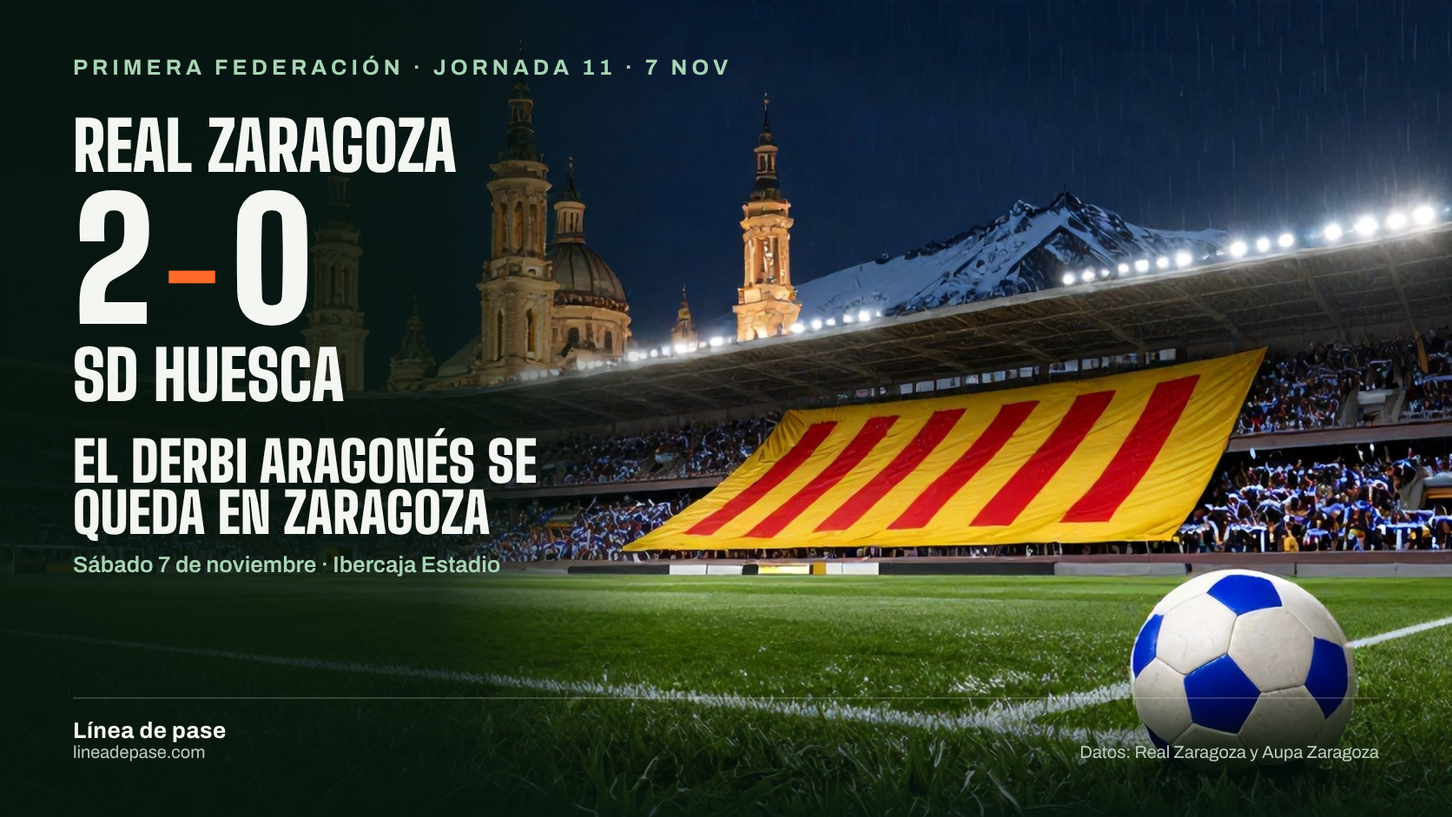
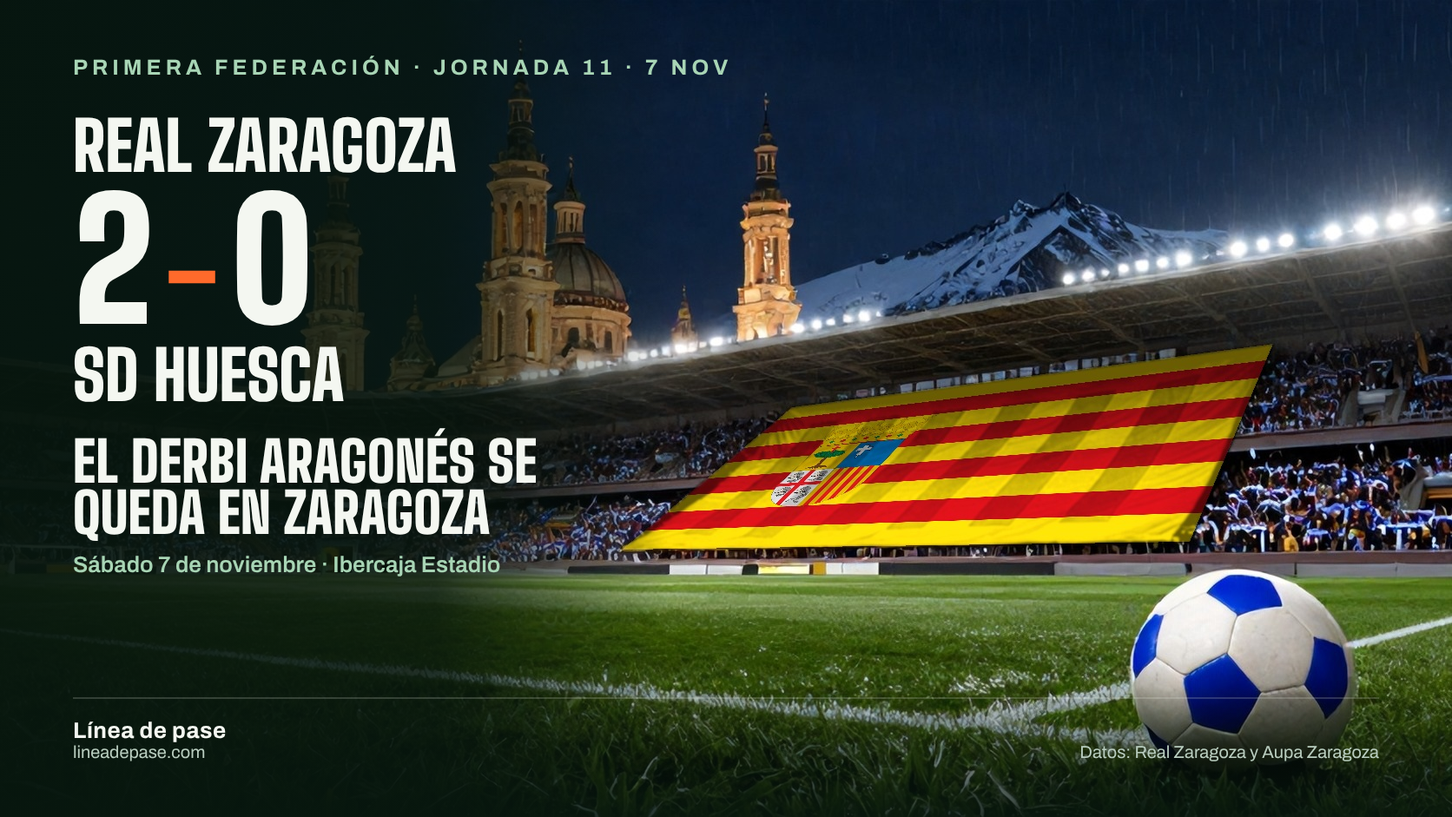
J11: bandera de Aragón correcta en la ilustración

Changed region(s): [[0.4354, 0.4006, 0.8708, 0.678]]

diff --git a/index.html b/index.html
@@ -84,7 +84,7 @@
 </div></section>
 <div class="envoltorio">
 <div class="divisor-campo" aria-hidden="true"></div>
-<!-- previas-portada --><section class="previas-portada" aria-labelledby="titulo-previas"><p class="etiqueta">Partidos</p><h2 id="titulo-previas">Partidos y análisis</h2><div class="previas-rejilla"><article class="tarjeta-previa" data-fecha="2026-11-07" data-hora="21:00" data-resultado-confirmado="true" data-marcador="2–0"><a href="proyectos/real-zaragoza/previa-jornada-11.html"><img src="proyectos/real-zaragoza/graficos/jornada-11/resultado-zaragoza-huesca.webp" alt="Marcador final Real Zaragoza 2–0 SD Huesca en la jornada 11, con el titular «El derbi aragonés se queda en Zaragoza», sobre una ilustración de un estadio lleno con un tifo de la bandera de Aragón, la basílica del Pilar y el Pirineo al fondo." width="1672" height="941" loading="lazy" srcset="assets/adaptadas/resultado-zaragoza-huesca-5c0852fd62-480.webp 480w, assets/adaptadas/resultado-zaragoza-huesca-5c0852fd62-800.webp 800w, assets/adaptadas/resultado-zaragoza-huesca-5c0852fd62-1200.webp 1200w, assets/adaptadas/resultado-zaragoza-huesca-5c0852fd62-1600.webp 1600w, assets/adaptadas/resultado-zaragoza-huesca-5c0852fd62-1672.webp 1672w" sizes="(max-width: 640px) calc(100vw - 48px), 800px"></a><p class="estado-previa">Final · 2–0</p><p class="etiqueta">Primera Federación · J11 · Resultado final</p><p class="datos-partido">07/11 · 21:00 h · Ibercaja Estadio</p><p class="marcador-previa"><span class="solo-lectores">Marcador final: </span>2–0</p><p class="fecha-datos"><time datetime="2026-11-03">Publicada el 03/11/2026</time> · <time datetime="2026-11-08">Actualizada el 08/11/2026</time></p><h3><a href="proyectos/real-zaragoza/previa-jornada-11.html">Real Zaragoza 2–0 SD Huesca: el derbi aragonés se queda en Zaragoza</a></h3><p>Joaquín, en el 23&#x27;, y Vadillo, en el 50&#x27;, marcaron tras dos pérdidas del Huesca en la salida de balón. El equipo oscense terminó con un solo remate y con diez desde el 67&#x27;.</p><a class="enlace-editorial" href="proyectos/real-zaragoza/previa-jornada-11.html">Leer el análisis</a><a class="boton calendario-partido" data-fecha="2026-11-07" data-hora="21:00" hidden href="calendario/previa-jornada-11.ics" download>Añadir al calendario</a><a class="enlace-postpartido postpartido-disponible" data-fecha="2026-11-07" data-resultado-confirmado="true" href="proyectos/real-zaragoza/jornada-11.html">Leer el análisis →</a></article><article class="tarjeta-previa" data-fecha="2026-10-31" data-hora="21:00" data-resultado-confirmado="true" data-marcador="2–2"><a href="proyectos/real-zaragoza/previa-jornada-10.html"><img src="proyectos/real-zaragoza/graficos/jornada-10/resultado-zaragoza-villarreal-b.webp" alt="Marcador final Real Zaragoza 2–2 Villarreal B en la jornada 10. Los goles de Jardí y Diego González completan la remontada en los últimos minutos, sobre una ilustración de un reloj de arena en el césped." width="1672" height="941" loading="lazy" srcset="assets/adaptadas/resultado-zaragoza-villarreal-b-d0c28ac601-480.webp 480w, assets/adaptadas/resultado-zaragoza-villarreal-b-d0c28ac601-800.webp 800w, assets/adaptadas/resultado-zaragoza-villarreal-b-d0c28ac601-1200.webp 1200w, assets/adaptadas/resultado-zaragoza-villarreal-b-d0c28ac601-1600.webp 1600w, assets/adaptadas/resultado-zaragoza-villarreal-b-d0c28ac601-1672.webp 1672w" sizes="(max-width: 640px) calc(100vw - 48px), 800px"></a><p class="estado-previa">Final · 2–2</p><p class="etiqueta">Primera Federación · J10 · Resultado final</p><p class="datos-partido">31/10 · 21:00 h · Ibercaja Estadio</p><p class="marcador-previa"><span class="solo-lectores">Marcador final: </span>2–2</p><p class="fecha-datos"><time datetime="2026-10-27">Publicada el 27/10/2026</time> · <time datetime="2026-11-01">Actualizada el 01/11/2026</time></p><h3><a href="proyectos/real-zaragoza/previa-jornada-10.html">Real Zaragoza 2–2 Villarreal B: del 0-2 al empate en siete minutos</a></h3><p>El Villarreal B marcó en el 64&#x27; y el 70&#x27;; Jardí, en el rechace de su penalti, y Diego González, en el 90+3&#x27;, igualaron el duelo entre los dos primeros.</p><a class="enlace-editorial" href="proyectos/real-zaragoza/previa-jornada-10.html">Leer el análisis</a><a class="boton calendario-partido" data-fecha="2026-10-31" data-hora="21:00" hidden href="calendario/previa-jornada-10.ics" download>Añadir al calendario</a><a class="enlace-postpartido postpartido-disponible" data-fecha="2026-10-31" data-resultado-confirmado="true" href="proyectos/real-zaragoza/jornada-10.html">Leer el análisis →</a></article><article class="tarjeta-previa" data-fecha="2026-10-27" data-hora="21:00" data-resultado-confirmado="true" data-marcador="0–4"><a href="proyectos/real-zaragoza/previa-copa-tudelano-20261027.html"><img src="proyectos/real-zaragoza/graficos/previa/noche-copa-tudela-20261027.webp" alt="Noche de Copa del Rey entre el CD Tudelano y el Real Zaragoza en Tudela." width="1672" height="941" loading="lazy" srcset="assets/adaptadas/noche-copa-tudela-20261027-93148c0889-480.webp 480w, assets/adaptadas/noche-copa-tudela-20261027-93148c0889-800.webp 800w, assets/adaptadas/noche-copa-tudela-20261027-93148c0889-1200.webp 1200w, assets/adaptadas/noche-copa-tudela-20261027-93148c0889-1600.webp 1600w, assets/adaptadas/noche-copa-tudela-20261027-93148c0889-1672.webp 1672w" sizes="(max-width: 640px) calc(100vw - 32px), (max-width: 1200px) calc((100vw - 80px)/2), 560px"></a><p class="estado-previa">Final · 0–4</p><p class="etiqueta">Copa del Rey · Primera eliminatoria · Resultado final</p><p class="datos-partido">27/10 · 21:00 h · Estadio Ciudad de Tudela</p><p class="marcador-previa"><span class="solo-lectores">Marcador final: </span>0–4</p><p class="fecha-datos"><time datetime="2026-10-27">Publicada el 27/10/2026</time> · <time datetime="2026-10-28">Actualizada el 28/10/2026</time></p><h3><a href="proyectos/real-zaragoza/previa-copa-tudelano-20261027.html">Tudelano 0–4 Real Zaragoza: una eliminatoria resuelta antes del descanso</a></h3><p>Cuatro goles en la primera parte encarrilaron el pase. La eficacia temprana permitió al Zaragoza gestionar la segunda mitad y repartir minutos.</p><a class="enlace-editorial" href="proyectos/real-zaragoza/previa-copa-tudelano-20261027.html">Leer el análisis</a><a class="boton calendario-partido" data-fecha="2026-10-27" data-hora="21:00" hidden href="calendario/previa-copa-tudelano-20261027.ics" download>Añadir al calendario</a></article></div></section><!-- /previas-portada --><section class="actualidad-editorial actualidad-compacta"><article class="analisis-principal"><p class="etiqueta">Último partido de liga · Jornada 11</p><div class="titulo-resultado"><h2><a href="proyectos/real-zaragoza/jornada-11.html">Real Zaragoza – SD Huesca</a></h2><p class="marcador-editorial">2–0</p></div><figure class="resultado-portada-visual" data-jornada="11" data-fecha-partido="2026-11-07"><a href="proyectos/real-zaragoza/ultimo-partido.html" aria-label="Abrir el análisis de Real Zaragoza – SD Huesca"><img src="assets/ilustraciones/resultado-real-zaragoza-ultima-jornada.png" width="1200" height="630" loading="lazy" alt="Marcador final de Real Zaragoza – SD Huesca · Jornada 11" srcset="assets/adaptadas/resultado-real-zaragoza-ultima-jornada-867a9bf0fd-480.webp 480w, assets/adaptadas/resultado-real-zaragoza-ultima-jornada-867a9bf0fd-800.webp 800w, assets/adaptadas/resultado-real-zaragoza-ultima-jornada-867a9bf0fd-1200.webp 1200w" sizes="(max-width: 640px) calc(100vw - 48px), 800px"></a><figcaption>Marcador · Jornada 11</figcaption></figure><p class="entradilla">El Zaragoza ganó el derbi 2–0 con dos goles nacidos de pérdidas del Huesca en la salida de balón.</p><p class="fecha-datos">07/11/2026 · Temporada 2026/27</p><p class="aviso-ficha-estadistica pendiente">Ficha estadística pendiente de validación. Las métricas de este partido no se muestran en la portada.</p><div class="enlaces"><a class="enlace-editorial" href="proyectos/real-zaragoza/jornada-11.html#titulo-claves">El análisis completo →</a></div></article><aside class="mesa-de-datos"><p class="etiqueta">Para explorar</p><h2>Haz tu propia comparación</h2><a class="imagen-menu-comparador" href="comparador/" aria-label="Abrir el comparador de equipos"><img src="assets/ilustraciones/comparador-grupo2.webp" width="1672" height="941" loading="lazy" alt="Ilustración editorial de dos equipos comparados sobre un campo de fútbol" srcset="assets/adaptadas/comparador-grupo2-3f3da6a923-480.webp 480w, assets/adaptadas/comparador-grupo2-3f3da6a923-800.webp 800w, assets/adaptadas/comparador-grupo2-3f3da6a923-1200.webp 1200w, assets/adaptadas/comparador-grupo2-3f3da6a923-1600.webp 1600w, assets/adaptadas/comparador-grupo2-3f3da6a923-1672.webp 1672w" sizes="(max-width: 760px) calc(100vw - 32px), 400px"></a><a href="comparador/"><strong>Dos equipos, frente a frente →</strong><span>Resultados, ocasiones y contexto.</span></a><a href="mapa-grupo/"><strong>El mapa del Grupo 2 →</strong><span>Veinte equipos en una misma vista.</span></a><a href="archivo/"><strong>Buscar un análisis →</strong><span>Por rival, temporada o tema.</span></a><a href="marcador-a-ciegas/"><strong>El marcador a ciegas →</strong><span>¿Qué cuentan los tiros y la posesión?</span></a><a href="reloj-del-marcador/"><strong>El reloj del marcador →</strong><span>Minutos de ventaja, empate o desventaja.</span></a><a href="pizarron-de-una-jugada/"><strong>El pizarrón de una jugada →</strong><span>La secuencia del gol ante el Europa.</span></a><a href="balance-de-preguntas/"><strong>Balance de preguntas →</strong><span>Qué se pudo comprobar después.</span></a><a href="partidos-espejo/"><strong>Partidos espejo →</strong><span>Perfiles parecidos, marcadores distintos.</span></a><a href="datos-en-revision/"><strong>Cuando las cifras no coinciden →</strong><span>Qué se publica y cómo se trata la diferencia.</span></a><a href="preguntas-del-partido/"><strong>Preguntas del partido →</strong><span>Lo que se planteó antes y se comprobó después.</span></a></aside></section>
+<!-- previas-portada --><section class="previas-portada" aria-labelledby="titulo-previas"><p class="etiqueta">Partidos</p><h2 id="titulo-previas">Partidos y análisis</h2><div class="previas-rejilla"><article class="tarjeta-previa" data-fecha="2026-11-07" data-hora="21:00" data-resultado-confirmado="true" data-marcador="2–0"><a href="proyectos/real-zaragoza/previa-jornada-11.html"><img src="proyectos/real-zaragoza/graficos/jornada-11/resultado-zaragoza-huesca.webp" alt="Marcador final Real Zaragoza 2–0 SD Huesca en la jornada 11, con el titular «El derbi aragonés se queda en Zaragoza», sobre una ilustración de un estadio lleno con un tifo de la bandera de Aragón, la basílica del Pilar y el Pirineo al fondo." width="1672" height="941" loading="lazy" srcset="assets/adaptadas/resultado-zaragoza-huesca-20370a7d49-480.webp 480w, assets/adaptadas/resultado-zaragoza-huesca-20370a7d49-800.webp 800w, assets/adaptadas/resultado-zaragoza-huesca-20370a7d49-1200.webp 1200w, assets/adaptadas/resultado-zaragoza-huesca-20370a7d49-1600.webp 1600w, assets/adaptadas/resultado-zaragoza-huesca-20370a7d49-1672.webp 1672w" sizes="(max-width: 640px) calc(100vw - 48px), 800px"></a><p class="estado-previa">Final · 2–0</p><p class="etiqueta">Primera Federación · J11 · Resultado final</p><p class="datos-partido">07/11 · 21:00 h · Ibercaja Estadio</p><p class="marcador-previa"><span class="solo-lectores">Marcador final: </span>2–0</p><p class="fecha-datos"><time datetime="2026-11-03">Publicada el 03/11/2026</time> · <time datetime="2026-11-08">Actualizada el 08/11/2026</time></p><h3><a href="proyectos/real-zaragoza/previa-jornada-11.html">Real Zaragoza 2–0 SD Huesca: el derbi aragonés se queda en Zaragoza</a></h3><p>Joaquín, en el 23&#x27;, y Vadillo, en el 50&#x27;, marcaron tras dos pérdidas del Huesca en la salida de balón. El equipo oscense terminó con un solo remate y con diez desde el 67&#x27;.</p><a class="enlace-editorial" href="proyectos/real-zaragoza/previa-jornada-11.html">Leer el análisis</a><a class="boton calendario-partido" data-fecha="2026-11-07" data-hora="21:00" hidden href="calendario/previa-jornada-11.ics" download>Añadir al calendario</a><a class="enlace-postpartido postpartido-disponible" data-fecha="2026-11-07" data-resultado-confirmado="true" href="proyectos/real-zaragoza/jornada-11.html">Leer el análisis →</a></article><article class="tarjeta-previa" data-fecha="2026-10-31" data-hora="21:00" data-resultado-confirmado="true" data-marcador="2–2"><a href="proyectos/real-zaragoza/previa-jornada-10.html"><img src="proyectos/real-zaragoza/graficos/jornada-10/resultado-zaragoza-villarreal-b.webp" alt="Marcador final Real Zaragoza 2–2 Villarreal B en la jornada 10. Los goles de Jardí y Diego González completan la remontada en los últimos minutos, sobre una ilustración de un reloj de arena en el césped." width="1672" height="941" loading="lazy" srcset="assets/adaptadas/resultado-zaragoza-villarreal-b-d0c28ac601-480.webp 480w, assets/adaptadas/resultado-zaragoza-villarreal-b-d0c28ac601-800.webp 800w, assets/adaptadas/resultado-zaragoza-villarreal-b-d0c28ac601-1200.webp 1200w, assets/adaptadas/resultado-zaragoza-villarreal-b-d0c28ac601-1600.webp 1600w, assets/adaptadas/resultado-zaragoza-villarreal-b-d0c28ac601-1672.webp 1672w" sizes="(max-width: 640px) calc(100vw - 48px), 800px"></a><p class="estado-previa">Final · 2–2</p><p class="etiqueta">Primera Federación · J10 · Resultado final</p><p class="datos-partido">31/10 · 21:00 h · Ibercaja Estadio</p><p class="marcador-previa"><span class="solo-lectores">Marcador final: </span>2–2</p><p class="fecha-datos"><time datetime="2026-10-27">Publicada el 27/10/2026</time> · <time datetime="2026-11-01">Actualizada el 01/11/2026</time></p><h3><a href="proyectos/real-zaragoza/previa-jornada-10.html">Real Zaragoza 2–2 Villarreal B: del 0-2 al empate en siete minutos</a></h3><p>El Villarreal B marcó en el 64&#x27; y el 70&#x27;; Jardí, en el rechace de su penalti, y Diego González, en el 90+3&#x27;, igualaron el duelo entre los dos primeros.</p><a class="enlace-editorial" href="proyectos/real-zaragoza/previa-jornada-10.html">Leer el análisis</a><a class="boton calendario-partido" data-fecha="2026-10-31" data-hora="21:00" hidden href="calendario/previa-jornada-10.ics" download>Añadir al calendario</a><a class="enlace-postpartido postpartido-disponible" data-fecha="2026-10-31" data-resultado-confirmado="true" href="proyectos/real-zaragoza/jornada-10.html">Leer el análisis →</a></article><article class="tarjeta-previa" data-fecha="2026-10-27" data-hora="21:00" data-resultado-confirmado="true" data-marcador="0–4"><a href="proyectos/real-zaragoza/previa-copa-tudelano-20261027.html"><img src="proyectos/real-zaragoza/graficos/previa/noche-copa-tudela-20261027.webp" alt="Noche de Copa del Rey entre el CD Tudelano y el Real Zaragoza en Tudela." width="1672" height="941" loading="lazy" srcset="assets/adaptadas/noche-copa-tudela-20261027-93148c0889-480.webp 480w, assets/adaptadas/noche-copa-tudela-20261027-93148c0889-800.webp 800w, assets/adaptadas/noche-copa-tudela-20261027-93148c0889-1200.webp 1200w, assets/adaptadas/noche-copa-tudela-20261027-93148c0889-1600.webp 1600w, assets/adaptadas/noche-copa-tudela-20261027-93148c0889-1672.webp 1672w" sizes="(max-width: 640px) calc(100vw - 32px), (max-width: 1200px) calc((100vw - 80px)/2), 560px"></a><p class="estado-previa">Final · 0–4</p><p class="etiqueta">Copa del Rey · Primera eliminatoria · Resultado final</p><p class="datos-partido">27/10 · 21:00 h · Estadio Ciudad de Tudela</p><p class="marcador-previa"><span class="solo-lectores">Marcador final: </span>0–4</p><p class="fecha-datos"><time datetime="2026-10-27">Publicada el 27/10/2026</time> · <time datetime="2026-10-28">Actualizada el 28/10/2026</time></p><h3><a href="proyectos/real-zaragoza/previa-copa-tudelano-20261027.html">Tudelano 0–4 Real Zaragoza: una eliminatoria resuelta antes del descanso</a></h3><p>Cuatro goles en la primera parte encarrilaron el pase. La eficacia temprana permitió al Zaragoza gestionar la segunda mitad y repartir minutos.</p><a class="enlace-editorial" href="proyectos/real-zaragoza/previa-copa-tudelano-20261027.html">Leer el análisis</a><a class="boton calendario-partido" data-fecha="2026-10-27" data-hora="21:00" hidden href="calendario/previa-copa-tudelano-20261027.ics" download>Añadir al calendario</a></article></div></section><!-- /previas-portada --><section class="actualidad-editorial actualidad-compacta"><article class="analisis-principal"><p class="etiqueta">Último partido de liga · Jornada 11</p><div class="titulo-resultado"><h2><a href="proyectos/real-zaragoza/jornada-11.html">Real Zaragoza – SD Huesca</a></h2><p class="marcador-editorial">2–0</p></div><figure class="resultado-portada-visual" data-jornada="11" data-fecha-partido="2026-11-07"><a href="proyectos/real-zaragoza/ultimo-partido.html" aria-label="Abrir el análisis de Real Zaragoza – SD Huesca"><img src="assets/ilustraciones/resultado-real-zaragoza-ultima-jornada.png" width="1200" height="630" loading="lazy" alt="Marcador final de Real Zaragoza – SD Huesca · Jornada 11" srcset="assets/adaptadas/resultado-real-zaragoza-ultima-jornada-867a9bf0fd-480.webp 480w, assets/adaptadas/resultado-real-zaragoza-ultima-jornada-867a9bf0fd-800.webp 800w, assets/adaptadas/resultado-real-zaragoza-ultima-jornada-867a9bf0fd-1200.webp 1200w" sizes="(max-width: 640px) calc(100vw - 48px), 800px"></a><figcaption>Marcador · Jornada 11</figcaption></figure><p class="entradilla">El Zaragoza ganó el derbi 2–0 con dos goles nacidos de pérdidas del Huesca en la salida de balón.</p><p class="fecha-datos">07/11/2026 · Temporada 2026/27</p><p class="aviso-ficha-estadistica pendiente">Ficha estadística pendiente de validación. Las métricas de este partido no se muestran en la portada.</p><div class="enlaces"><a class="enlace-editorial" href="proyectos/real-zaragoza/jornada-11.html#titulo-claves">El análisis completo →</a></div></article><aside class="mesa-de-datos"><p class="etiqueta">Para explorar</p><h2>Haz tu propia comparación</h2><a class="imagen-menu-comparador" href="comparador/" aria-label="Abrir el comparador de equipos"><img src="assets/ilustraciones/comparador-grupo2.webp" width="1672" height="941" loading="lazy" alt="Ilustración editorial de dos equipos comparados sobre un campo de fútbol" srcset="assets/adaptadas/comparador-grupo2-3f3da6a923-480.webp 480w, assets/adaptadas/comparador-grupo2-3f3da6a923-800.webp 800w, assets/adaptadas/comparador-grupo2-3f3da6a923-1200.webp 1200w, assets/adaptadas/comparador-grupo2-3f3da6a923-1600.webp 1600w, assets/adaptadas/comparador-grupo2-3f3da6a923-1672.webp 1672w" sizes="(max-width: 760px) calc(100vw - 32px), 400px"></a><a href="comparador/"><strong>Dos equipos, frente a frente →</strong><span>Resultados, ocasiones y contexto.</span></a><a href="mapa-grupo/"><strong>El mapa del Grupo 2 →</strong><span>Veinte equipos en una misma vista.</span></a><a href="archivo/"><strong>Buscar un análisis →</strong><span>Por rival, temporada o tema.</span></a><a href="marcador-a-ciegas/"><strong>El marcador a ciegas →</strong><span>¿Qué cuentan los tiros y la posesión?</span></a><a href="reloj-del-marcador/"><strong>El reloj del marcador →</strong><span>Minutos de ventaja, empate o desventaja.</span></a><a href="pizarron-de-una-jugada/"><strong>El pizarrón de una jugada →</strong><span>La secuencia del gol ante el Europa.</span></a><a href="balance-de-preguntas/"><strong>Balance de preguntas →</strong><span>Qué se pudo comprobar después.</span></a><a href="partidos-espejo/"><strong>Partidos espejo →</strong><span>Perfiles parecidos, marcadores distintos.</span></a><a href="datos-en-revision/"><strong>Cuando las cifras no coinciden →</strong><span>Qué se publica y cómo se trata la diferencia.</span></a><a href="preguntas-del-partido/"><strong>Preguntas del partido →</strong><span>Lo que se planteó antes y se comprobó después.</span></a></aside></section>
 
 <section class="investigacion-editorial investigacion-con-foto"><figure class="foto foto-lectura"><a href="proyectos/liga-f-xt/"><img src="proyectos/liga-f-xt/graficos/foto.jpg" width="1080" height="1000" loading="lazy" alt="Caroline Graham Hansen con el FC Barcelona en 2024" srcset="assets/adaptadas/foto-b2509fd513-480.webp 480w, assets/adaptadas/foto-b2509fd513-800.webp 800w, assets/adaptadas/foto-b2509fd513-1080.webp 1080w" sizes="(max-width: 416px) calc(100vw - 32px), 384px"></a><figcaption>Foto: MichaelEmilio · <a href="https://creativecommons.org/licenses/by-sa/4.0/">CC BY-SA 4.0</a> · <a href="https://commons.wikimedia.org/wiki/File:Brann_-_Bar%C3%A7a_Femen%C3%AD_CG3A7081_(cropped).jpg">Wikimedia Commons</a> (recortada).</figcaption></figure><div><p class="etiqueta">Investigación · Liga F 2023/24</p><h2><a href="proyectos/liga-f-xt/">¿Quién acerca el balón a las zonas de gol?</a></h2><p>Graham Hansen encabeza el estudio de amenaza esperada. El análisis explica qué mide el xT y qué queda fuera del número.</p><a class="enlace-editorial" href="proyectos/liga-f-xt/">Leer «El peligro empieza antes del último pase» →</a></div></section>
 <section class="otras-lecturas lecturas-visuales"><article class="lectura-territorio"><figure class="foto foto-lectura"><a href="proyectos/futbol-femenino/"><img src="assets/fotos/seleccion-espanola-riazor-2024.jpg" width="1280" height="859" alt="Selección española femenina en Riazor en 2024" loading="lazy" srcset="assets/adaptadas/seleccion-espanola-riazor-2024-25553c3294-480.webp 480w, assets/adaptadas/seleccion-espanola-riazor-2024-25553c3294-800.webp 800w, assets/adaptadas/seleccion-espanola-riazor-2024-25553c3294-1200.webp 1200w, assets/adaptadas/seleccion-espanola-riazor-2024-25553c3294-1280.webp 1280w" sizes="(max-width: 366px) calc(100vw - 32px), 334px"></a><figcaption>Selección española · 2024. Foto: Estevoaei · <a href="https://creativecommons.org/licenses/by-sa/4.0/">CC BY-SA 4.0</a> · <a href="https://commons.wikimedia.org/wiki/File:Partido_Espa%C3%B1a_-_B%C3%A9lxica_en_Riazor,_clasificatorio_Eurocopa_2025_10.jpg">Wikimedia Commons</a> (recortada).</figcaption></figure><div><p class="etiqueta">Fútbol femenino · Territorio</p><h2><a href="proyectos/futbol-femenino/">Más jugadoras, una base más amplia</a></h2><p>¿Dónde empezar un programa de iniciación? Un análisis de licencias y población, con mapa y criterios para elegir.</p><a class="enlace-editorial" href="proyectos/futbol-femenino/">Ver la propuesta →</a></div></article><article class="lectura-video"><a class="miniatura-video" href="videos/#fvs" aria-label="Ver la explicación del FVS de Primera Federación"><img src="assets/fvs-portada.jpg" width="1920" height="1080" loading="lazy" alt="Portada del vídeo sobre el FVS de Primera Federación" srcset="assets/adaptadas/fvs-portada-e12d68008b-480.webp 480w, assets/adaptadas/fvs-portada-e12d68008b-800.webp 800w, assets/adaptadas/fvs-portada-e12d68008b-1200.webp 1200w, assets/adaptadas/fvs-portada-e12d68008b-1280.webp 1280w" sizes="(max-width: 380px) 192px, 384px"><span aria-hidden="true">▶</span></a><div><p class="etiqueta">En vídeo · Reglamento</p><h2><a href="videos/#fvs">El FVS, explicado</a></h2><p>Cuándo se puede pedir una revisión y qué jugadas entran.</p></div></article></section>

diff --git a/proyectos/real-zaragoza/previa.html b/proyectos/real-zaragoza/previa.html
@@ -64,7 +64,7 @@
     <p class="etiqueta">Previa · Jornada 11 · 7 de noviembre de 2026</p>
     <h1>Real Zaragoza – SD Huesca</h1>
     <p class="entradilla">Lo que dicen los resultados de los dos equipos antes del partido. Son datos de pocas jornadas: sirven para situarse, no para adivinar el resultado.</p>
-  </section><!-- tres-claves --><aside class="tres-claves" aria-labelledby="titulo-claves"><p class="etiqueta">Antes de entrar en detalle</p><h2 id="titulo-claves">Tres claves del análisis</h2><ol><li><strong>La comparación</strong><p>La previa contrasta clasificación, forma y rendimiento según la sede antes del próximo encuentro.</p></li><li><strong>El dato</strong><p>El Zaragoza suma 24 puntos hasta la jornada 11; la tabla del rival y el corte aparecen en la comparativa.</p></li><li><strong>La lectura</strong><p>La muestra describe el inicio de temporada y los rivales comunes aportan contexto, pero no permiten predecir el resultado.</p></li></ol></aside><!-- /tres-claves --><p class="fecha-datos">Publicado el 03/11/2026 · Revisado el 08/11/2026 · Ángel Marqueta Alonso</p><!-- imagen-previa --><figure class="foto imagen-editorial-previa"><img src="graficos/jornada-11/resultado-zaragoza-huesca.webp" width="1672" height="941" alt="Marcador final Real Zaragoza 2–0 SD Huesca en la jornada 11, con el titular «El derbi aragonés se queda en Zaragoza», sobre una ilustración de un estadio lleno con un tifo de la bandera de Aragón, la basílica del Pilar y el Pirineo al fondo." style="width:100%;height:auto;border-radius:12px" srcset="../../assets/adaptadas/resultado-zaragoza-huesca-5c0852fd62-480.webp 480w, ../../assets/adaptadas/resultado-zaragoza-huesca-5c0852fd62-800.webp 800w, ../../assets/adaptadas/resultado-zaragoza-huesca-5c0852fd62-1200.webp 1200w, ../../assets/adaptadas/resultado-zaragoza-huesca-5c0852fd62-1600.webp 1600w, ../../assets/adaptadas/resultado-zaragoza-huesca-5c0852fd62-1672.webp 1672w" sizes="(max-width: 640px) calc(100vw - 48px), 800px"><figcaption>Ilustración creada con IA para Línea de pase.</figcaption></figure><!-- /imagen-previa --><!-- compartir-previa --><div class="compartir-previa" aria-label="Compartir esta previa"><button class="boton" type="button" data-compartir-previa>Compartir</button><button class="boton" type="button" data-copiar-previa>Copiar enlace</button><span class="estado-compartir" data-estado-compartir role="status" aria-live="polite"></span></div><!-- /compartir-previa --><!-- ficha-previa --><section class="seccion lectura ficha-previa" aria-labelledby="ficha-previa"><p class="etiqueta">La cita</p><h2 id="ficha-previa">Real Zaragoza 2–0 SD Huesca: el derbi aragonés se queda en Zaragoza</h2><p class="estado-previa estado-partido-detalle" data-fecha="2026-11-07" data-hora="21:00" data-resultado-confirmado="true" data-marcador="2–0">Final · 2–0</p><ul class="claves"><li><strong>Cuándo:</strong> Sábado 07 de noviembre de 2026, 21:00 h (hora peninsular)</li><li><strong>Dónde:</strong> Ibercaja Estadio</li><li><strong>Competición:</strong> Primera Federación · Jornada 11</li></ul><p class="resultado-confirmado"><strong>Resultado final: 2–0</strong></p><p class="calendario-partido" data-fecha="2026-11-07" data-hora="21:00" hidden><a class="boton" href="../../calendario/previa-jornada-11.ics" download>Añadir al calendario (.ics)</a></p><p class="nota postpartido-disponible" data-fecha="2026-11-07" data-resultado-confirmado="true"><a class="enlace-postpartido" href="../../proyectos/real-zaragoza/jornada-11.html">Leer el análisis del partido →</a></p></section><!-- /ficha-previa --><!-- pregunta-partido --><section class="seccion lectura pregunta-partido" aria-labelledby="titulo-pregunta-partido"><p class="etiqueta">Una pregunta para volver</p><h2 id="titulo-pregunta-partido">La pregunta previa</h2><p class="pregunta-partido-texto">¿Romperá el Huesca su serie de cuatro empates fuera de casa?</p><p class="respuesta-pregunta"><strong>Después del partido.</strong> El Huesca no rompió su serie, pero tampoco la alargó: perdió por primera vez fuera de casa esta temporada. Tras cuatro empates a domicilio, cayó 2–0 en el Ibercaja Estadio con un solo remate y jugó con diez desde el 67&#x27;. Es un único partido y no permite sacar conclusiones sobre su rendimiento como visitante.</p><h3>El partido en tres momentos</h3><ol class="momentos-partido"><li><span class="momento-minuto">23’</span><div><strong>1–0</strong><p>Jardí recuperó un balón perdido por Kembo en la salida y Joaquín, solo ante Gazzaniga, abrió el marcador.</p></div></li><li><span class="momento-minuto">50’</span><div><strong>2–0</strong><p>Vadillo robó otro balón en la salida del Huesca, se fue hacia dentro y marcó con un disparo cruzado.</p></div></li><li><span class="momento-minuto">67’</span><div><strong>2–0</strong><p>Diego Gómez vio la segunda amarilla y el Huesca jugó con diez el último tramo.</p></div></li></ol><aside class="fuera-de-plano"><h3>Lo que los datos no muestran</h3><p>El balance por sede reúne cuatro partidos del Zaragoza en casa y cuatro salidas del Huesca. Es una muestra corta y no permite anticipar cómo se desarrollará el derbi.</p></aside></section><!-- /pregunta-partido --><!-- previa-tres-estados --><section class="seccion lectura previa-tres-estados" aria-labelledby="titulo-tres-estados"><p class="etiqueta">Después del partido</p><h2 id="titulo-tres-estados">Qué queda claro y qué no</h2><ol><li><span>Marcador</span><p>El Real Zaragoza ganó 2–0 a la SD Huesca en el Ibercaja Estadio.</p></li><li><span>Dato que falta</span><p>La ficha no ofrece xG ni un desglose completo de los tiros.</p></li><li><span>Lectura</span><p>El Huesca perdió su primer partido fuera de casa tras cuatro empates a domicilio.</p></li></ol></section><!-- /previa-tres-estados --><!-- noticia-previa --><section class="seccion lectura" aria-labelledby="noticia-previa-j11"><p class="etiqueta">La crónica</p><h2 id="noticia-previa-j11">El Zaragoza gana el derbi con dos robos</h2><p>El Real Zaragoza ganó 2–0 a la SD Huesca en el Ibercaja Estadio. Joaquín abrió el marcador en el 23, después de que Jardí recuperara un balón perdido por Kembo en la salida, y Vadillo hizo el segundo en el 50 tras otro robo en campo rival. Diego Gómez fue expulsado por doble amarilla en el 67.</p><p>La ficha del club da 18 remates del Zaragoza, ocho a puerta, por uno del Huesca, que no llegó a tirar entre los palos. La posesión fue más repartida, 54 % a 46 %. No hay xG de Sofascore para este partido y el desglose de tiros está incompleto, de modo que las cifras describen el volumen, no la calidad de las ocasiones.</p><p>El Huesca, que llegaba con cuatro empates en sus cuatro salidas, perdió por primera vez fuera de casa. El Zaragoza suma 24 puntos en once jornadas y visita al Real Jaén el sábado 14 de noviembre.</p></section><!-- /noticia-previa -->
+  </section><!-- tres-claves --><aside class="tres-claves" aria-labelledby="titulo-claves"><p class="etiqueta">Antes de entrar en detalle</p><h2 id="titulo-claves">Tres claves del análisis</h2><ol><li><strong>La comparación</strong><p>La previa contrasta clasificación, forma y rendimiento según la sede antes del próximo encuentro.</p></li><li><strong>El dato</strong><p>El Zaragoza suma 24 puntos hasta la jornada 11; la tabla del rival y el corte aparecen en la comparativa.</p></li><li><strong>La lectura</strong><p>La muestra describe el inicio de temporada y los rivales comunes aportan contexto, pero no permiten predecir el resultado.</p></li></ol></aside><!-- /tres-claves --><p class="fecha-datos">Publicado el 03/11/2026 · Revisado el 08/11/2026 · Ángel Marqueta Alonso</p><!-- imagen-previa --><figure class="foto imagen-editorial-previa"><img src="graficos/jornada-11/resultado-zaragoza-huesca.webp" width="1672" height="941" alt="Marcador final Real Zaragoza 2–0 SD Huesca en la jornada 11, con el titular «El derbi aragonés se queda en Zaragoza», sobre una ilustración de un estadio lleno con un tifo de la bandera de Aragón, la basílica del Pilar y el Pirineo al fondo." style="width:100%;height:auto;border-radius:12px" srcset="../../assets/adaptadas/resultado-zaragoza-huesca-20370a7d49-480.webp 480w, ../../assets/adaptadas/resultado-zaragoza-huesca-20370a7d49-800.webp 800w, ../../assets/adaptadas/resultado-zaragoza-huesca-20370a7d49-1200.webp 1200w, ../../assets/adaptadas/resultado-zaragoza-huesca-20370a7d49-1600.webp 1600w, ../../assets/adaptadas/resultado-zaragoza-huesca-20370a7d49-1672.webp 1672w" sizes="(max-width: 640px) calc(100vw - 48px), 800px"><figcaption>Ilustración creada con IA para Línea de pase.</figcaption></figure><!-- /imagen-previa --><!-- compartir-previa --><div class="compartir-previa" aria-label="Compartir esta previa"><button class="boton" type="button" data-compartir-previa>Compartir</button><button class="boton" type="button" data-copiar-previa>Copiar enlace</button><span class="estado-compartir" data-estado-compartir role="status" aria-live="polite"></span></div><!-- /compartir-previa --><!-- ficha-previa --><section class="seccion lectura ficha-previa" aria-labelledby="ficha-previa"><p class="etiqueta">La cita</p><h2 id="ficha-previa">Real Zaragoza 2–0 SD Huesca: el derbi aragonés se queda en Zaragoza</h2><p class="estado-previa estado-partido-detalle" data-fecha="2026-11-07" data-hora="21:00" data-resultado-confirmado="true" data-marcador="2–0">Final · 2–0</p><ul class="claves"><li><strong>Cuándo:</strong> Sábado 07 de noviembre de 2026, 21:00 h (hora peninsular)</li><li><strong>Dónde:</strong> Ibercaja Estadio</li><li><strong>Competición:</strong> Primera Federación · Jornada 11</li></ul><p class="resultado-confirmado"><strong>Resultado final: 2–0</strong></p><p class="calendario-partido" data-fecha="2026-11-07" data-hora="21:00" hidden><a class="boton" href="../../calendario/previa-jornada-11.ics" download>Añadir al calendario (.ics)</a></p><p class="nota postpartido-disponible" data-fecha="2026-11-07" data-resultado-confirmado="true"><a class="enlace-postpartido" href="../../proyectos/real-zaragoza/jornada-11.html">Leer el análisis del partido →</a></p></section><!-- /ficha-previa --><!-- pregunta-partido --><section class="seccion lectura pregunta-partido" aria-labelledby="titulo-pregunta-partido"><p class="etiqueta">Una pregunta para volver</p><h2 id="titulo-pregunta-partido">La pregunta previa</h2><p class="pregunta-partido-texto">¿Romperá el Huesca su serie de cuatro empates fuera de casa?</p><p class="respuesta-pregunta"><strong>Después del partido.</strong> El Huesca no rompió su serie, pero tampoco la alargó: perdió por primera vez fuera de casa esta temporada. Tras cuatro empates a domicilio, cayó 2–0 en el Ibercaja Estadio con un solo remate y jugó con diez desde el 67&#x27;. Es un único partido y no permite sacar conclusiones sobre su rendimiento como visitante.</p><h3>El partido en tres momentos</h3><ol class="momentos-partido"><li><span class="momento-minuto">23’</span><div><strong>1–0</strong><p>Jardí recuperó un balón perdido por Kembo en la salida y Joaquín, solo ante Gazzaniga, abrió el marcador.</p></div></li><li><span class="momento-minuto">50’</span><div><strong>2–0</strong><p>Vadillo robó otro balón en la salida del Huesca, se fue hacia dentro y marcó con un disparo cruzado.</p></div></li><li><span class="momento-minuto">67’</span><div><strong>2–0</strong><p>Diego Gómez vio la segunda amarilla y el Huesca jugó con diez el último tramo.</p></div></li></ol><aside class="fuera-de-plano"><h3>Lo que los datos no muestran</h3><p>El balance por sede reúne cuatro partidos del Zaragoza en casa y cuatro salidas del Huesca. Es una muestra corta y no permite anticipar cómo se desarrollará el derbi.</p></aside></section><!-- /pregunta-partido --><!-- previa-tres-estados --><section class="seccion lectura previa-tres-estados" aria-labelledby="titulo-tres-estados"><p class="etiqueta">Después del partido</p><h2 id="titulo-tres-estados">Qué queda claro y qué no</h2><ol><li><span>Marcador</span><p>El Real Zaragoza ganó 2–0 a la SD Huesca en el Ibercaja Estadio.</p></li><li><span>Dato que falta</span><p>La ficha no ofrece xG ni un desglose completo de los tiros.</p></li><li><span>Lectura</span><p>El Huesca perdió su primer partido fuera de casa tras cuatro empates a domicilio.</p></li></ol></section><!-- /previa-tres-estados --><!-- noticia-previa --><section class="seccion lectura" aria-labelledby="noticia-previa-j11"><p class="etiqueta">La crónica</p><h2 id="noticia-previa-j11">El Zaragoza gana el derbi con dos robos</h2><p>El Real Zaragoza ganó 2–0 a la SD Huesca en el Ibercaja Estadio. Joaquín abrió el marcador en el 23, después de que Jardí recuperara un balón perdido por Kembo en la salida, y Vadillo hizo el segundo en el 50 tras otro robo en campo rival. Diego Gómez fue expulsado por doble amarilla en el 67.</p><p>La ficha del club da 18 remates del Zaragoza, ocho a puerta, por uno del Huesca, que no llegó a tirar entre los palos. La posesión fue más repartida, 54 % a 46 %. No hay xG de Sofascore para este partido y el desglose de tiros está incompleto, de modo que las cifras describen el volumen, no la calidad de las ocasiones.</p><p>El Huesca, que llegaba con cuatro empates en sus cuatro salidas, perdió por primera vez fuera de casa. El Zaragoza suma 24 puntos en once jornadas y visita al Real Jaén el sábado 14 de noviembre.</p></section><!-- /noticia-previa -->
   <p class="corte-visible">Datos de la comparativa hasta la jornada 10 · Consulta la fecha de corte del informe.</p>
 
   <section class="seccion lectura">
